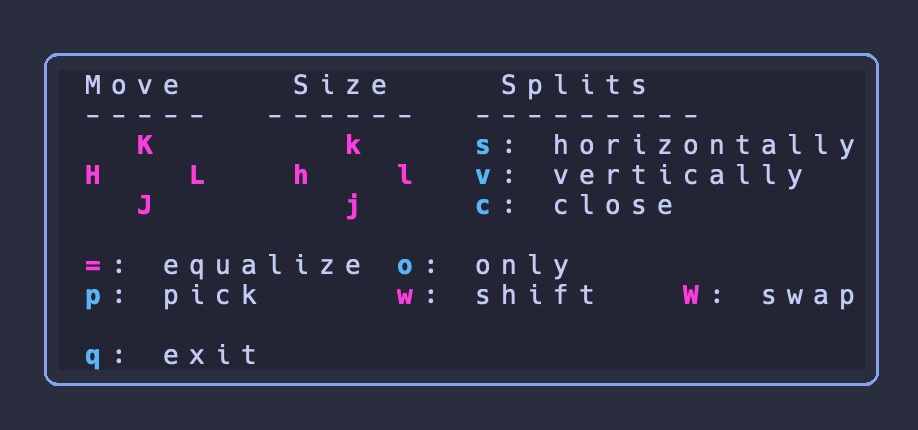
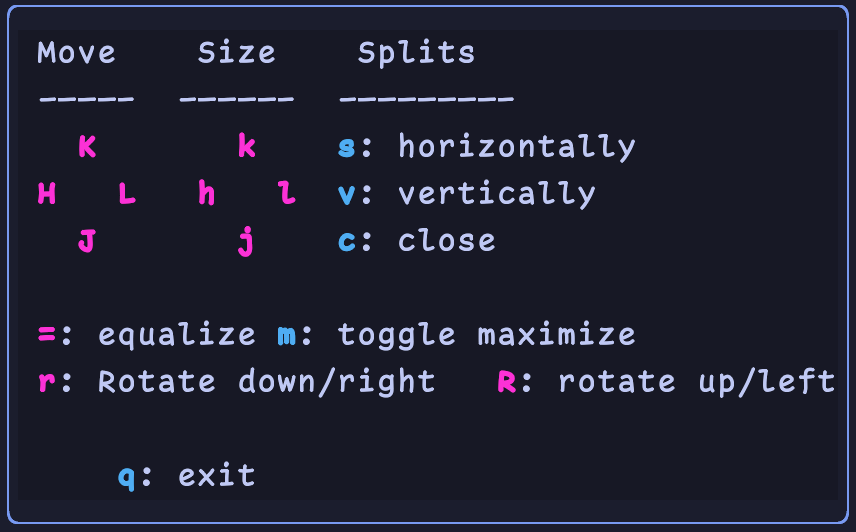
docs: Update README and pics

diff --git a/README.md b/README.md
@@ -56,11 +56,9 @@ See `./lua/core/config/ui/which-key.lua` for details.
 </details>
 
 <details>
-<summary>Hydra modes for better shortcut handling</summary>
+<summary>Hydra mode for window bindings</summary>
 
 ![](./docs/hydra-window.png)
-![](./docs/hydra-telescope.png)
-![](./docs/hydra-spelling.png)
 
 </details>
 
@@ -208,42 +206,43 @@ All other dependencies are managed by [Mason](https://github.com/williamboman/ma
 
 Some bindings can be overwritten in your user config file. See `./lua/core/config/defaults.lua` for possible settings.
 
-| Mode    | key                    | binding                                                          |
-| ------- | ---------------------- | ---------------------------------------------------------------- |
-| n       | space                  | Leader key                                                       |
-| n       | \<c-h \| j \| k \| l\> | Change window focus (including Tmux panes)                       |
-| n       | \<leader\>Tab          | Switch to previously opened buffer                               |
-| n       | \<Tab\>                | Switch to next buffer (bnext)                                    |
-| n       | \<S-Tab\>              | Switch to previous buffer (bprevious)                            |
-| n       | st                     | Visual selection with Treesitter hint textobject                 |
-| v       | sa                     | Add surrounding                                                  |
-| n       | sd                     | Delete surrounding                                               |
-| n       | sr                     | Replace surrounding                                              |
-| n       | \<c-Tab\>              | Start auto completion                                            |
-| n/v     | ga                     | Start mini.align (align text)                                    |
-| n       | gcc                    | Toggle line comment                                              |
-| n/v     | gc                     | Toggle line comment (works with movements like `gcip`)           |
-| n       | ss                     | Jump to character(s) (flash.nvim)                                |
-| i/s     | \<c-j\>                | Luasnip expand/forward                                           |
-| i/s     | \<c-k\>                | Luasnip backward                                                 |
-| i       | \<c-h\>                | Luasnip select choice                                            |
-| n       | \<c-n\>                | Toggleterm (opens/hides a full terminal in Neovim)               |
-| i       | \<c-l\>                | Move out of closing brackets                                     |
-| n       | \<CR\>                 | Start incremental selection                                      |
-| v       | \<Tab\>                | Increment selection                                              |
-| v       | \<S-Tab\>              | Decrement selection                                              |
-| n       | \<c-f\>                | Search buffer                                                    |
-| i/v/n/s | \<c-s\>                | Save file                                                        |
-| n       | \<leader\>Rr           | Toggle Search and Replace (via Spectre)                          |
-| n       | \<leader\>Rw           | Search (and replace) current word (via Spectre)                  |
-| n       | \<leader\>Rf           | Search (and replace) in current file (via Spectre)               |
-| n       | \<leader\>Rc           | Replace current selection (in Spectre)                           |
-| n       | \<leader\>RR           | Replace all (in Spectre)                                         |
-| n       | :LtexLang <lang>       | Set a specific language like "de-DE" for ltex-ls                 |
-| n       | \<leader\>mc           | Enable GitHub Copilot (if plugin is enabled in your user config) |
-| n       | \<leader\>tr           | Toggle Overseer (if plugin is enabled in your user config)       |
-| n       | \<leader\>r            | OverseerRun (if plugin is enabled in your user config)           |
-| n       | \<leader\>lf           | lf.nvim (if plugin is enabled in your user config)               |
+| Mode    | key                    | binding                                                                 |
+| ------- | ---------------------- | ----------------------------------------------------------------------- |
+| n       | space                  | Leader key                                                              |
+| n       | \<c-h \| j \| k \| l\> | Change window focus (including Tmux panes)                              |
+| n       | \<leader\>Tab          | Switch to previously opened buffer                                      |
+| n       | \<Tab\>                | Switch to next buffer (bnext)                                           |
+| n       | \<S-Tab\>              | Switch to previous buffer (bprevious)                                   |
+| n       | st                     | Visual selection with Treesitter hint textobject                        |
+| v       | sa                     | Add surrounding                                                         |
+| n       | sd                     | Delete surrounding                                                      |
+| n       | sr                     | Replace surrounding                                                     |
+| n       | \<c-Tab\>              | Start auto completion                                                   |
+| n/v     | ga                     | Start mini.align (align text)                                           |
+| n       | gcc                    | Toggle line comment                                                     |
+| n/v     | gc                     | Toggle line comment (works with movements like `gcip`)                  |
+| n       | ss                     | Jump to character(s) (flash.nvim)                                       |
+| i/s     | \<c-j\>                | Luasnip expand/forward                                                  |
+| i/s     | \<c-k\>                | Luasnip backward                                                        |
+| i       | \<c-h\>                | Luasnip select choice                                                   |
+| n       | \<c-n\>                | Toggleterm (opens/hides a full terminal in Neovim)                      |
+| i       | \<c-l\>                | Move out of closing brackets                                            |
+| n       | \<CR\>                 | Start incremental selection                                             |
+| v       | \<Tab\>                | Increment selection                                                     |
+| v       | \<S-Tab\>              | Decrement selection                                                     |
+| n       | \<c-f\>                | Search buffer                                                           |
+| i/v/n/s | \<c-s\>                | Save file                                                               |
+| n       | \<leader\>Rr           | Toggle Search and Replace (via Spectre)                                 |
+| n       | \<leader\>Rw           | Search (and replace) current word (via Spectre)                         |
+| n       | \<leader\>Rf           | Search (and replace) in current file (via Spectre)                      |
+| n       | \<leader\>Rc           | Replace current selection (in Spectre)                                  |
+| n       | \<leader\>RR           | Replace all (in Spectre)                                                |
+| n       | :LtexLang <lang>       | Set a specific language like "de-DE" for ltex-ls                        |
+| n       | \<leader\>mc           | Enable GitHub Copilot (if plugin is enabled in your user config)        |
+| n       | \<leader\>tr           | Toggle Overseer (if plugin is enabled in your user config)              |
+| n       | \<leader\>r            | OverseerRun (if plugin is enabled in your user config)                  |
+| n       | \<leader\>lf           | lf.nvim (if plugin is enabled in your user config)                      |
+| n       | \<leader\>tz           | Toggle distraction free mode (if plugin is enabled in your user config) |
 
 Hit `<leader>` to start `which-key` which gives you more mappings grouped by topic.
 
@@ -292,11 +291,9 @@ Each plugin to be installed is defined in `./lua/core/plugins/` in a separate fi
 
 The intention of my Neovim configuration was never to be a fully customizable "distribution" like LunarVim, SpaceVim, etc. but from time to time I like to change my color scheme and the idea of making this configurable came to my mind. Based upon this idea I implemented some further lightweight configuration options that might be useful.
 
-The default configuration can be found in `./lua/core/config/defaults.lua`.
+The default configuration can be found in [./lua/core/config/defaults.lua](./lua/core/config/defaults.lua).
 
-https://github.com/Allaman/nvim/blob/main/lua/config/defaults.lua#L3-L349
-
-You can overwrite any of this configuration by writing a `.nvim_config.lua` file that follows the same structure as `defaults.lua` and pick only those keys that you want to modify. The configuration file should be placed in `$XDG_CONFIG_HOME`, `$HOME`, or the windows equivalent path.
+You can overwrite any of this configuration by writing a `.nvim_config.lua` file that follows the same structure as `defaults.lua` and pick only those keys that you want to modify. Have a look at my user configuration in my [dots repo](https://github.com/Allaman/dots/blob/main/dot_nvim_config.lua.tmpl). The configuration file should be placed in `$XDG_CONFIG_HOME`, `$HOME`, or the windows equivalent path.
 
 You can start with `cp ./config-example.lua $HOME/.nvim_config.lua`.
 
